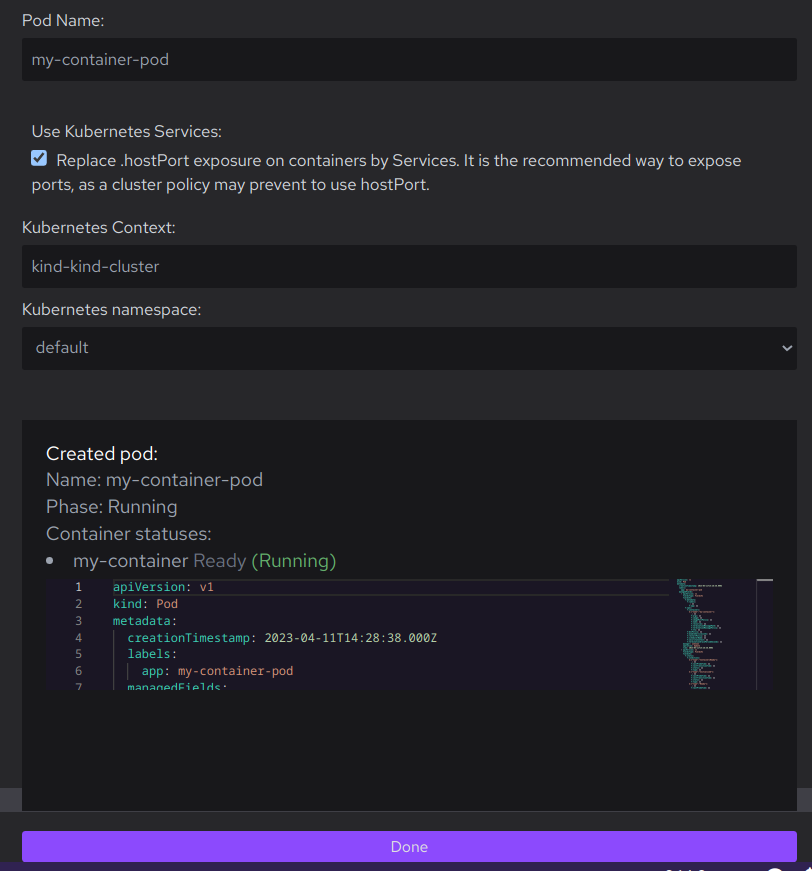
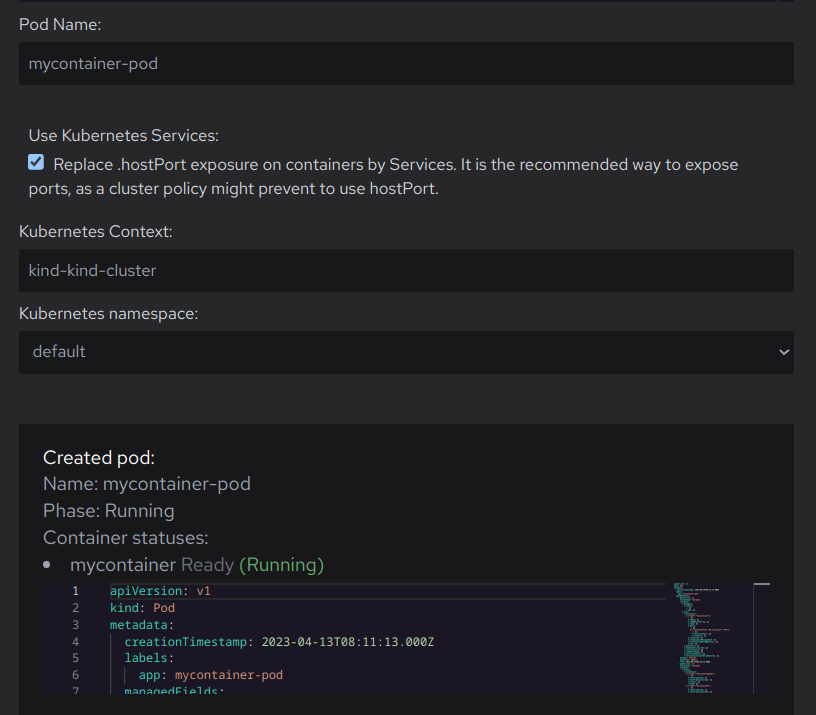
docs: add Deploying a pod to Kubernetes

diff --git a/website/docs/kubernetes/deploying-a-pod-to-kubernetes.md b/website/docs/kubernetes/deploying-a-pod-to-kubernetes.md
@@ -1,0 +1,36 @@
+---
+sidebar_position: 10
+title: Deploying a pod
+description: Deploying a pod to Kubernetes 
+keywords: [podman desktop, podman, containers, pods, migrating, kubernetes]
+tags: [migrating-to-kubernetes]
+---
+
+# Deploying a pod to Kubernetes
+
+With Podman Desktop, you can deploy a pod to your Kubernetes cluster.
+
+#### Prerequisites
+
+* You registered the Kubernetes cluster in your kubeconfig file: *<your_kubernetes_cluster>*. For example, [Creating a kind cluster](kind/creating-a-kind-cluster.md).
+* Your pod, running or stopped, is available on the **Pods** page: *<your_pod>*.
+* The Kubernetes namespace to deploy to already exists.
+
+#### Procedure
+
+1. Click **Podman Desktop tray > Kubernetes > Context > *<your_kubernetes_cluster>*** to set your Kubernetes context.
+1. Open **Podman Desktop dashboard > Pods > *<your_pod>*** to see the **Pod Details** page.
+1. Click <icon icon="fa-solid fa-rocket" size="lg" /> to generate a Kubernetes pod.
+1. On the **Deploy generated pod to Kubernetes** screen, choose your options:
+   1. **Pod Name**: edit the proposed name.
+   1. **Use Kubernetes Services**: enable or disable **Replace `hostPort` exposure on containers by Services. It is the recommended way to expose ports, as a cluster policy might prevent to use `hostPort`.**
+   1. **Kubernetes namespace**: select in the list the namespace to deploy the pod to.
+1. Click the **<icon icon="fa-solid fa-rocket" size="lg" /> Deploy** button.
+
+#### Verification
+
+* On the **Deploy generated pod to Kubernetes** screen, the created pod status is *Phase: Running*
+
+  ![](img/deploying-a-pod.png)
+
+* Go to **Pods**: your pod is in the list.
